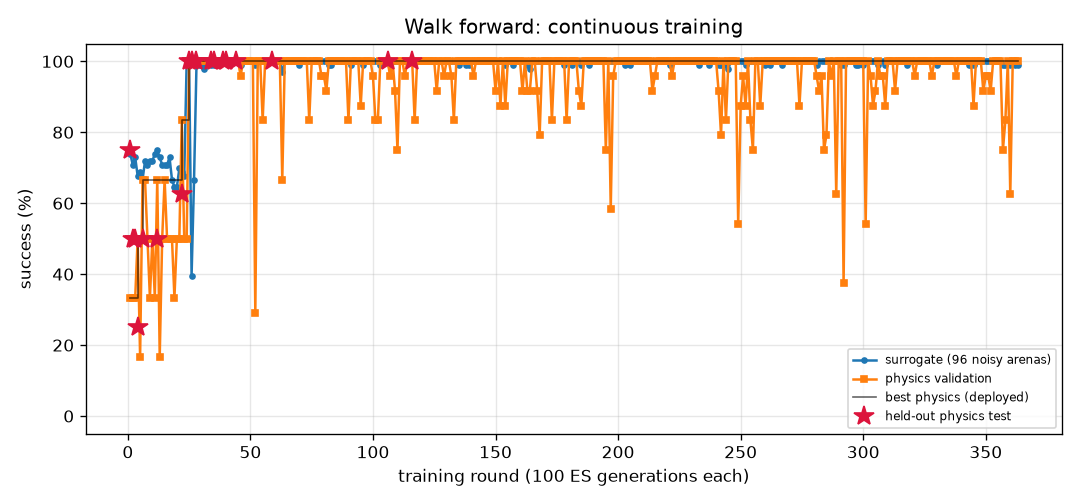
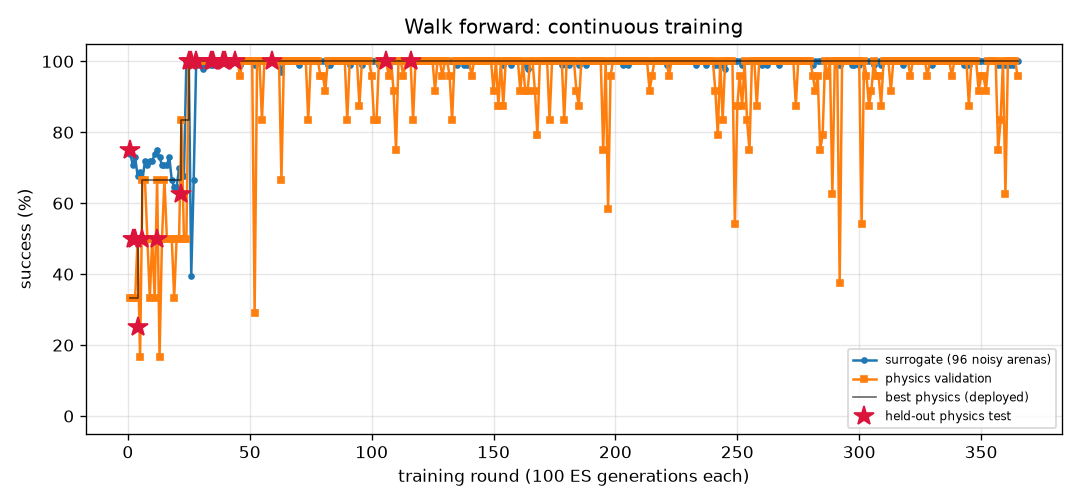
FlyLab: continuous training progress
- walk_forward: optimal, physics val 100% of 24, round 365
- turn: optimal, physics val 100% of 24, round 997
- goto: optimal, physics val 100% of 24, round 284
- odor_seek: optimal, physics val 100% of 24, round 232
- odor_avoid: optimal, physics val 100% of 24, round 887
- light_seek: optimal, physics val 100% of 24, round 486
- light_avoid: optimal, physics val 100% of 24, round 618

diff --git a/projects/09_flylab/training/walk_forward/REPORT.md b/projects/09_flylab/training/walk_forward/REPORT.md
@@ -1,14 +1,14 @@
 # Walk forward (`walk_forward`) — training report
 
-*Auto-generated by `train_brains.py`, last updated 2026-11-11T20:56:39.*
+*Auto-generated by `train_brains.py`, last updated 2026-11-11T21:20:17.*
 
 ![curve](curve.png)
 
 | | |
 |---|---|
-| rounds | 363 |
-| ES generations | 36300 |
-| physics runs | 8726 |
+| rounds | 365 |
+| ES generations | 36500 |
+| physics runs | 8774 |
 | status | **optimal** |
 | best brain | round 116: physics validation **100%** on 24 arenas, surrogate 100% |
 | held-out physics test | **100%** on 32 unseen arenas (95% CI 89%-100%) (errors: [0.13, 0.16, 0.19, 0.16, 0.15, 0.2, 0.17, 0.18, 0.17, 0.19, 0.2, 0.14, 0.17, 0.19, 0.2, 0.2, 0.13, 0.19, 0.16, 0.2, 0.2, 0.16, 0.17, 0.2, 0.13, 0.15, 0.18, 0.14, 0.16, 0.15, 0.19, 0.12]) |
@@ -17,8 +17,6 @@ Physics error per arena: mm from target at the end (< 1.5 and standing still = s
 
 | round | level | gens | sigma | surrogate | physics val | val errors | test | note |
 |---:|---:|---:|---:|---:|---:|---|---:|---|
-| 324 | 3 | 32400 | 0.024 | 100% | 100% | [0.27, 0.27, 0.21, 0.26, 0.26, 0.19, 0.26, 0.24, 0.27, 0.24, 0.18, 0.18, 0.23, 0.2, 0.29, 0.22, 0.26, 0.28, 0.25, 0.28, 0.25, 0.24, 0.25, 0.23] |  | restart from best |
-| 325 | 3 | 32500 | 0.024 | 100% | 100% | [0.2, 0.26, 0.06, 0.2, 0.26, 0.06, 0.25, 0.16, 0.26, 0.24, 0.18, 0.23, 0.16, 0.06, 0.23, 0.24, 0.18, 0.25, 0.16, 0.24, 0.16, 0.24, 0.22, 0.15] |  |  |
 | 326 | 3 | 32600 | 0.024 | 100% | 100% | [0.11, 0.1, 0.05, 0.1, 0.11, 0.08, 0.16, 0.02, 0.12, 0.22, 0.08, 0.17, 0.12, 0.07, 0.14, 0.18, 0.12, 0.11, 0.06, 0.12, 0.08, 0.21, 0.18, 0.15] |  |  |
 | 327 | 3 | 32700 | 0.024 | 100% | 100% | [0.15, 0.21, 0.16, 0.15, 0.2, 0.16, 0.21, 0.16, 0.21, 0.24, 0.16, 0.24, 0.16, 0.16, 0.16, 0.24, 0.14, 0.19, 0.15, 0.16, 0.15, 0.24, 0.24, 0.16] |  |  |
 | 328 | 3 | 32800 | 0.024 | 100% | 96% | [0.1, 0.2, 0.04, 0.16, 0.18, 0.12, 0.18, 0.07, 0.17, 0.13, 0.29, 0.13, 0.14, 0.11, 0.11, 0.09, 0.15, 0.13, 0.15, 0.11, 0.13, 0.16, 0.15, 0.14] |  | restart from best |
@@ -57,3 +55,5 @@ Physics error per arena: mm from target at the end (< 1.5 and standing still = s
 | 361 | 3 | 36100 | 0.024 | 100% | 100% | [0.3, 0.1, 0.27, 0.3, 0.05, 0.24, 0.06, 0.3, 0.07, 0.12, 0.23, 0.18, 0.3, 0.25, 0.29, 0.18, 0.31, 0.28, 0.31, 0.29, 0.32, 0.18, 0.22, 0.3] |  |  |
 | 362 | 3 | 36200 | 0.024 | 99% | 100% | [0.09, 0.1, 0.21, 0.11, 0.08, 0.2, 0.12, 0.22, 0.1, 0.12, 0.19, 0.15, 0.21, 0.2, 0.08, 0.15, 0.11, 0.11, 0.23, 0.05, 0.22, 0.13, 0.15, 0.21] |  |  |
 | 363 | 3 | 36300 | 0.025 | 99% | 100% | [0.24, 0.07, 0.24, 0.25, 0.08, 0.23, 0.06, 0.26, 0.08, 0.07, 0.21, 0.17, 0.27, 0.23, 0.23, 0.18, 0.25, 0.22, 0.26, 0.22, 0.26, 0.2, 0.18, 0.27] |  |  |
+| 364 | 3 | 36400 | 0.025 | 100% | 100% | [0.32, 0.39, 0.4, 0.32, 0.38, 0.4, 0.43, 0.37, 0.4, 0.52, 0.4, 0.52, 0.38, 0.4, 0.31, 0.53, 0.33, 0.33, 0.37, 0.3, 0.35, 0.52, 0.52, 0.38] |  | restart from best |
+| 365 | 3 | 36500 | 0.024 | 100% | 96% | [0.2, 0.25, 0.07, 0.21, 0.25, 0.06, 0.24, 0.18, 0.24, 0.24, 0.67, 0.22, 0.07, 0.06, 0.23, 0.24, 0.19, 0.24, 0.05, 0.23, 0.05, 0.24, 0.22, 0.41] |  |  |

diff --git a/projects/09_flylab/training/light_seek/REPORT.md b/projects/09_flylab/training/light_seek/REPORT.md
@@ -1,14 +1,14 @@
 # Walk toward light (`light_seek`) — training report
 
-*Auto-generated by `train_brains.py`, last updated 2026-11-11T20:44:22.*
+*Auto-generated by `train_brains.py`, last updated 2026-11-11T21:18:25.*
 
 ![curve](curve.png)
 
 | | |
 |---|---|
-| rounds | 484 |
-| ES generations | 48400 |
-| physics runs | 8496 |
+| rounds | 486 |
+| ES generations | 48600 |
+| physics runs | 8544 |
 | status | **optimal** |
 | best brain | round 375: physics validation **100%** on 24 arenas, surrogate 100% |
 | held-out physics test | **100%** on 32 unseen arenas (95% CI 89%-100%) (errors: [0.57, 0.54, 0.53, 0.57, 0.55, 0.56, 0.59, 0.56, 0.53, 0.56, 0.71, 0.56, 0.55, 0.54, 0.53, 0.54, 0.54, 0.55, 0.52, 0.65, 0.64, 0.7, 0.58, 0.57, 0.6, 0.62, 0.55, 0.88, 0.54, 0.52, 0.62, 0.57]) |
@@ -17,8 +17,6 @@ Physics error per arena: mm from target at the end (< 1.5 and standing still = s
 
 | round | level | gens | sigma | surrogate | physics val | val errors | test | note |
 |---:|---:|---:|---:|---:|---:|---|---:|---|
-| 445 | 3 | 44500 | 0.024 | 100% | 96% | [0.57, 0.67, 0.59, 2.65, 0.59, 0.65, 0.59, 0.74, 0.73, 0.63, 0.68, 0.65, 0.67, 0.56, 0.82, 0.65, 0.6, 0.68, 0.59, 0.58, 0.66, 0.61, 0.78, 0.67] |  |  |
-| 446 | 3 | 44600 | 0.024 | 100% | 83% | [0.73, 0.64, 1.6, 0.7, 0.57, 1.27, 1.56, 0.62, 1.31, 0.69, 0.6, 0.95, 0.63, 0.63, 0.54, 0.64, 0.66, 0.52, 0.57, 0.53, 0.66, 0.78, 1.49, 0.6] |  |  |
 | 447 | 3 | 44700 | 0.024 | 100% | 100% | [0.69, 0.74, 0.78, 0.71, 0.57, 0.7, 0.61, 0.75, 0.62, 0.64, 0.69, 0.65, 0.62, 0.67, 0.58, 0.73, 0.63, 0.64, 0.7, 0.79, 0.57, 0.78, 0.69, 0.71] |  | restart from best |
 | 448 | 3 | 44800 | 0.024 | 100% | 96% | [1.02, 0.48, 0.55, 0.66, 0.5, 1.09, 1.06, 0.63, 0.52, 0.49, 1.53, 0.53, 0.5, 0.55, 0.5, 0.51, 0.49, 0.57, 0.67, 0.57, 0.55, 0.54, 0.6, 0.49] |  |  |
 | 449 | 3 | 44900 | 0.024 | 100% | 100% | [0.74, 0.65, 0.53, 0.71, 1.01, 0.55, 0.65, 0.64, 0.58, 0.71, 0.55, 0.6, 1.1, 0.62, 0.79, 0.61, 0.59, 0.77, 0.53, 1.37, 0.79, 0.68, 0.59, 0.61] |  |  |
@@ -57,3 +55,5 @@ Physics error per arena: mm from target at the end (< 1.5 and standing still = s
 | 482 | 3 | 48200 | 0.024 | 100% | 100% | [0.58, 0.92, 0.52, 0.64, 0.87, 0.52, 0.56, 0.62, 0.94, 0.55, 0.58, 0.74, 0.64, 0.53, 0.5, 0.59, 0.78, 0.64, 0.89, 0.58, 0.56, 0.55, 0.55, 0.55] |  |  |
 | 483 | 3 | 48300 | 0.024 | 100% | 100% | [0.58, 0.53, 0.8, 0.54, 0.51, 0.51, 0.51, 0.68, 0.59, 0.51, 0.87, 0.5, 0.55, 0.89, 0.88, 0.5, 0.56, 0.51, 0.51, 0.53, 0.46, 0.62, 0.81, 0.52] |  | restart from best |
 | 484 | 3 | 48400 | 0.024 | 100% | 100% | [1.08, 0.61, 0.57, 0.7, 0.69, 0.62, 0.56, 0.56, 0.85, 0.6, 0.67, 0.56, 0.63, 0.53, 0.51, 0.56, 0.59, 0.49, 0.58, 0.58, 0.59, 0.69, 0.59, 0.56] |  |  |
+| 485 | 3 | 48500 | 0.024 | 100% | 100% | [1.0, 0.68, 0.74, 0.62, 0.53, 0.56, 0.58, 0.61, 0.71, 0.52, 0.63, 0.61, 0.59, 0.73, 0.58, 0.61, 0.59, 0.58, 0.57, 0.52, 0.55, 0.79, 0.52, 0.58] |  |  |
+| 486 | 3 | 48600 | 0.024 | 100% | 100% | [1.04, 0.7, 0.78, 0.65, 0.62, 0.69, 0.66, 0.66, 1.03, 0.62, 0.69, 0.62, 0.66, 0.68, 0.65, 0.62, 0.65, 0.72, 0.64, 0.62, 0.69, 0.61, 0.84, 0.65] |  |  |

diff --git a/projects/09_flylab/training/TRAINING.md b/projects/09_flylab/training/TRAINING.md
@@ -1,15 +1,15 @@
 # FlyLab brains — continuous training log
 
-*Auto-generated by `train_brains.py`, last updated 2026-11-11T20:56:39.*
+*Auto-generated by `train_brains.py`, last updated 2026-11-11T21:20:17.*
 
 Every skill has its own brain and its own training process: surrogate ES rounds, physics validation in MuJoCo, keep-the-best selection, and a held-out physics test that is never used for selection. See each skill's report for its full round-by-round history. Mastery is progressive: passing a level (100% physics validation, >=95% surrogate) doubles the validation and test arena sets; a brain is **optimal** once it holds up at level 3 (>=95% of 24 validation arenas) AND scores >=90% on the 32 held-out test arenas. Test columns show 95% Wilson confidence intervals.
 
 | skill | rounds | ES generations | physics runs | surrogate | physics val | **physics test** | status |
 |---|---:|---:|---:|---:|---:|---:|---|
-| [Walk forward](walk_forward/REPORT.md) | 363 | 36300 | 8726 | 100% | 100% of 24 | 100% of 32 (CI 89-100%) | **optimal** |
+| [Walk forward](walk_forward/REPORT.md) | 365 | 36500 | 8774 | 100% | 100% of 24 | 100% of 32 (CI 89-100%) | **optimal** |
 | [Turn in place](turn/REPORT.md) | 997 | 99700 | 24174 | 100% | 100% of 24 | 97% of 32 (CI 84-99%) | **optimal** |
 | [Go to a location](goto/REPORT.md) | 284 | 28400 | 6766 | 100% | 100% of 24 | 100% of 32 (CI 89-100%) | **optimal** |
 | [Find food by smell](odor_seek/REPORT.md) | 232 | 23200 | 4998 | 100% | 100% of 24 | 100% of 32 (CI 89-100%) | **optimal** |
 | [Escape a bad smell](odor_avoid/REPORT.md) | 887 | 88700 | 18594 | 97% | 100% of 24 | 97% of 32 (CI 84-99%) | **optimal** |
-| [Walk toward light](light_seek/REPORT.md) | 484 | 48400 | 8496 | 100% | 100% of 24 | 100% of 32 (CI 89-100%) | **optimal** |
+| [Walk toward light](light_seek/REPORT.md) | 486 | 48600 | 8544 | 100% | 100% of 24 | 100% of 32 (CI 89-100%) | **optimal** |
 | [Hide from light](light_avoid/REPORT.md) | 618 | 61800 | 15104 | 100% | 100% of 24 | 100% of 32 (CI 89-100%) | **optimal** |
